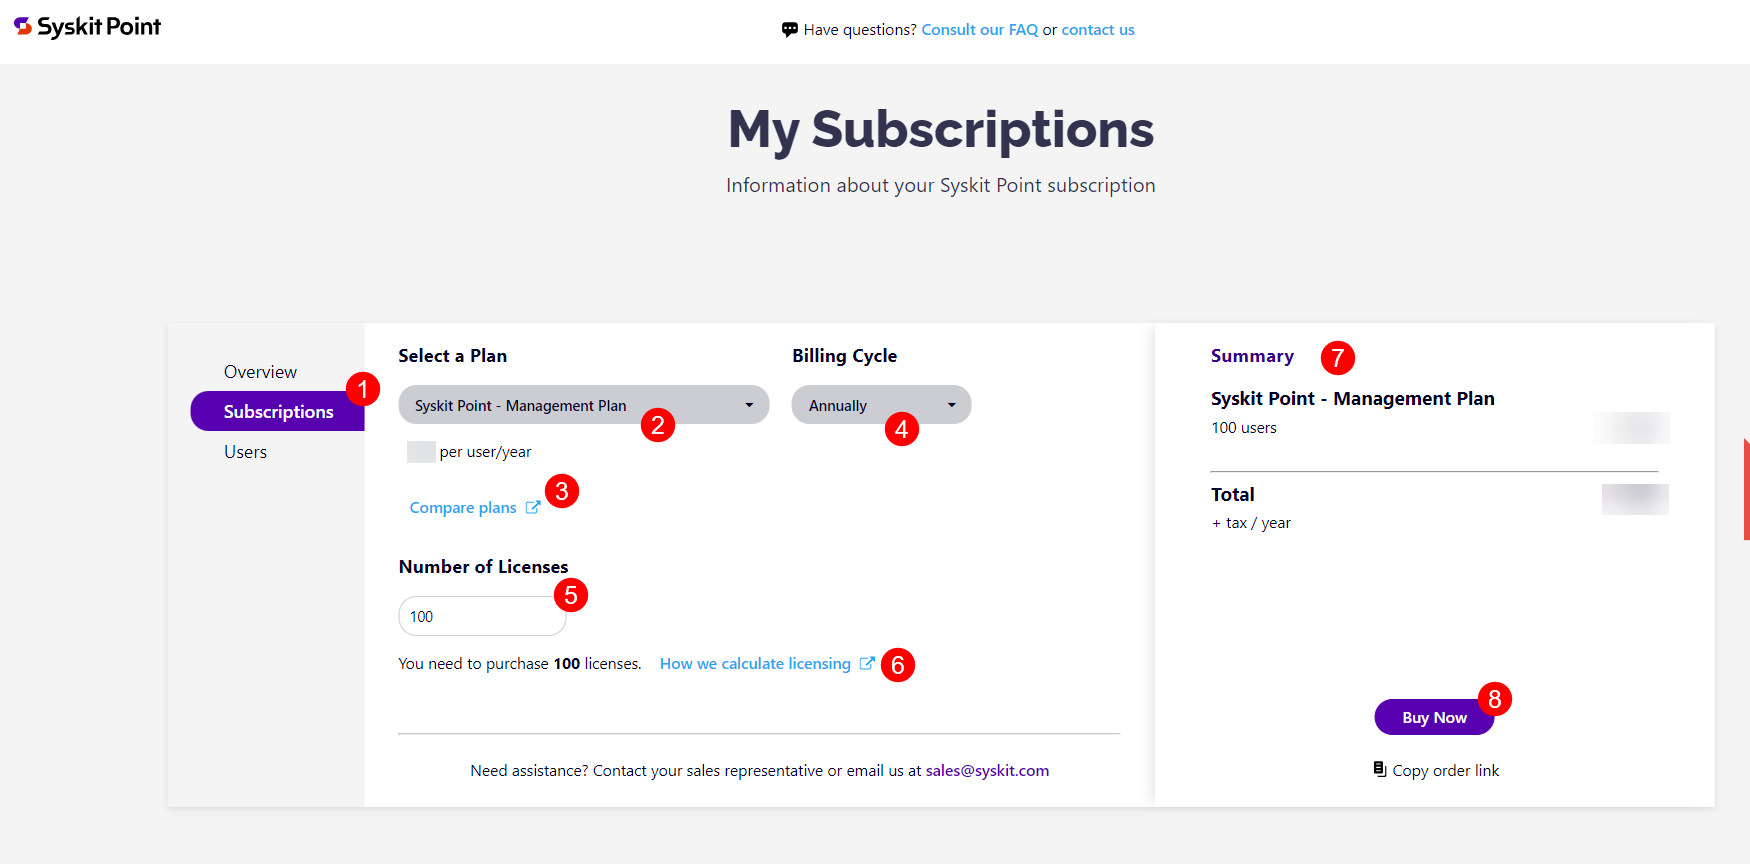
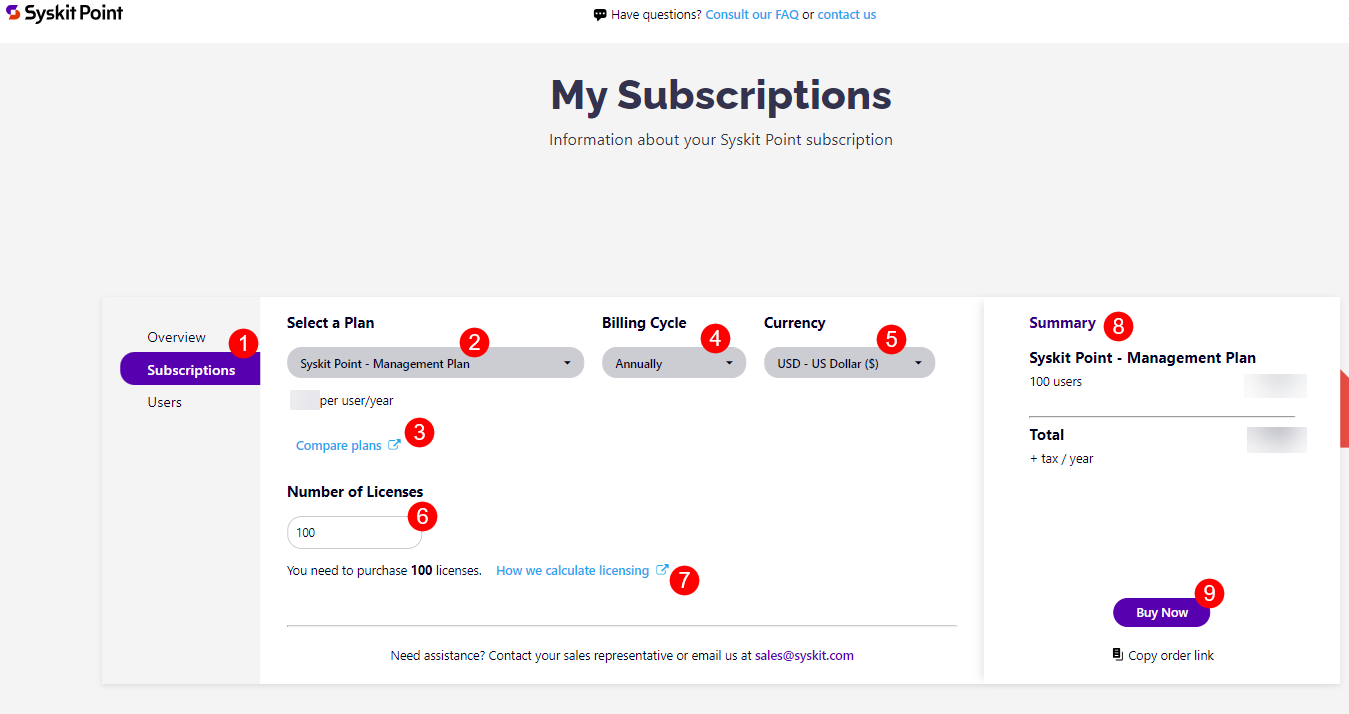
update fix

diff --git a/set-up-point-cloud/syskit-point-subscriptions.md b/set-up-point-cloud/syskit-point-subscriptions.md
@@ -65,13 +65,17 @@ Your preferences for the following information need to be selected:
 * **Billing Cycle (4)** - clicking on it opens a drop-down menu where you can select how often you want to be billed for your subscription:
   * Annually
   * Monthly
-* **Number of Licensed Microsoft 365 Users (5)** - here, you can write the number of users you expect will be utilizing Syskit Point
+* **Currency (5)** - clicking on it opens a drop-down menu where you can select the currency in which you want to be charged:
+  * USD - US Dollar
+  * GBP - British Pound
+  * EUR - Euro
+* **Number of Licensed Microsoft 365 Users (6)** - here, you can write the number of users you expect will be utilizing Syskit Point
   * The number of licensed users affects the pricing of your Syskit Point subscription
   * A minimum of 100 licenses need to be purchased for your Syskit Point subscription. For more details on this, take a look at the [**Licensed Users Count article**](../licensing-activation/licensed-users-count.md). 
-    * This article can also be accessed by clicking **How we calculate licensing (6)**
+    * This article can also be accessed by clicking **How we calculate licensing (7)**
 
-* **Summary (7)** - located on the right side of the screen, it shows a quick summary of the selection you've made with a cost estimate for your chosen subscription
-* Click the **Buy Now button (8)** for the final step to complete your purchase
+* **Summary (8)** - located on the right side of the screen, it shows a quick summary of the selection you've made with a cost estimate for your chosen subscription
+* Click the **Buy Now button (9)** for the final step to complete your purchase
 
 ![Syskit Point Subscription - Subscriptions Screen](../.gitbook/assets/purchasing-syskit-point-subscriptions-screen.png)
 
